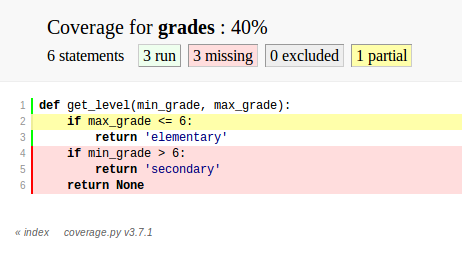
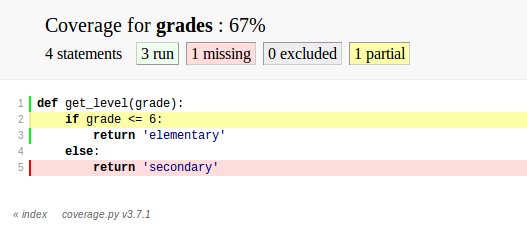
Edits after test run-through.

Changed region(s): [[0.0303, 0.3655, 1.0, 0.759], [0.0606, 0.0562, 0.9091, 0.2811], [0.0, 0.8434, 0.3333, 0.8996]]

diff --git a/output/index.html b/output/index.html
@@ -7,16 +7,15 @@
   <li><a href="http://www.oddbird.net" class="org url">oddbird.net</a></li>
   <li><a href="https://twitter.com/carljm" rel="me">@carljm</a></li>
 </ul>
-</div></p></div><div class="step" step="1" id="thistalk" data-reveal="1" data-x="1600" data-y="0"><h1 id="this-talk">This talk</h1><ul><li>py.test</li><li>test marking &amp; skipping</li><li>parametrized tests</li><li>fixtures</li><li>coverage</li><li>tox</li><li>mock &amp; pretend</li><li>WebTest</li></ul></div><div class="step" step="2" data-reveal="1" data-x="3200" data-y="0"><h1 id="how">How</h1><ul><li>Introduce a feature</li><li>Example(s)</li><li>Further exploration</li><li>Link to docs</li><li>Python 3</li></ul><div class="notes"><p>Docs links on final slide. No stress; doc links will be live in online
-slides.</p><p>All code is Py3, but will note Py2 differences.</p></div></div><div class="step" step="3" data-reveal="1" data-x="4800" data-y="0"><h1 id="me">Me</h1><ul><li>Writing Python since 2002.</li><li>Professionally since 2007.</li><li>Mostly web development.</li><li>OSS: pip, virtualenv, Django</li></ul></div><div class="step" step="4" data-emphasize-lines-step="1,3,5,7,9,10" data-x="6400" data-y="0"><h1 id="py-test">py.test</h1><h2 id="grades-py">grades.py</h2><pre class="highlight code python"><span class="ln">1 </span><span class="k">def</span> <span class="nf">get_level</span><span class="p">(</span><span class="n">min_grade</span><span class="p">,</span> <span class="n">max_grade</span><span class="p">):</span>
-<span class="ln">2 </span>    <span class="k">if</span> <span class="n">max_grade</span> <span class="o">&lt;=</span> <span class="mi">6</span><span class="p">:</span>
+</div></p></div><div class="step" step="1" id="thistalk" data-reveal="1" data-x="1600" data-y="0"><h1 id="this-talk">This talk</h1><ul><li>py.test</li><li>test marking &amp; skipping</li><li>parametrized tests</li><li>fixtures</li><li>coverage</li><li>tox</li></ul></div><div class="step" step="2" data-reveal="1" data-x="3200" data-y="0"><h1 id="how">How</h1><ul><li>Introduce a feature</li><li>Example(s)</li><li>Further exploration</li><li>Link to docs</li><li>Python 3</li></ul><div class="notes"><p>Docs links on final slide. No stress; doc links will be live in online
+slides.</p><p>All code is Py3, but will note Py2 differences.</p></div></div><div class="step" step="3" data-reveal="1" data-x="4800" data-y="0"><h1 id="me">Me</h1><ul><li>Writing Python since 2002.</li><li>Professionally since 2007.</li><li>Mostly web development.</li><li>OSS: pip, virtualenv, Django</li><li>OddBird: custom web tools for humans</li></ul></div><div class="step" step="4" data-emphasize-lines-step="1,3,5,7,9,10" data-x="6400" data-y="0"><h1 id="py-test">py.test</h1><h2 id="grades-py">grades.py</h2><pre class="highlight code python"><span class="ln">1 </span><span class="k">def</span> <span class="nf">get_level</span><span class="p">(</span><span class="n">grade</span><span class="p">):</span>
+<span class="ln">2 </span>    <span class="k">if</span> <span class="n">grade</span> <span class="o">&lt;=</span> <span class="mi">6</span><span class="p">:</span>
 <span class="ln">3 </span>        <span class="k">return</span> <span class="s">'elementary'</span>
-<span class="ln">4 </span>    <span class="k">if</span> <span class="n">min_grade</span> <span class="o">&gt;</span> <span class="mi">6</span><span class="p">:</span>
-<span class="ln">5 </span>        <span class="k">return</span> <span class="s">'secondary'</span>
-<span class="ln">6 </span>    <span class="k">return</span> <span class="bp">None</span></pre><h2 id="test-grades-py">test_grades.py</h2><pre class="highlight code python"><span class="ln">1 </span><span class="kn">import</span> <span class="nn">grades</span>
+<span class="ln">4 </span>    <span class="k">else</span><span class="p">:</span>
+<span class="ln">5 </span>        <span class="k">return</span> <span class="s">'secondary'</span></pre><h2 id="test-grades-py">test_grades.py</h2><pre class="highlight code python"><span class="ln">1 </span><span class="kn">import</span> <span class="nn">grades</span>
 <span class="ln">2 </span>
 <span class="ln">3 </span><span class="k">def</span> <span class="nf">test_get_level</span><span class="p">():</span>
-<span class="ln">4 </span>    <span class="k">assert</span> <span class="n">grades</span><span class="o">.</span><span class="n">get_level</span><span class="p">(</span><span class="mi">2</span><span class="p">,</span> <span class="mi">5</span><span class="p">)</span> <span class="o">==</span> <span class="s">'elementary'</span></pre><div class="notes"><p>py.test will find and run tests in any file whose name begins with
+<span class="ln">4 </span>    <span class="k">assert</span> <span class="n">grades</span><span class="o">.</span><span class="n">get_level</span><span class="p">(</span><span class="mi">2</span><span class="p">)</span> <span class="o">==</span> <span class="s">'elementary'</span></pre><div class="notes"><p>py.test will find and run tests in any file whose name begins with
 "test_". Test functions also need to have names beginning with "test".</p><p>Matching up "grades.py" with "test_grades.py" is not necessary, though often
 helpful to keep tests organized.</p><p>(These naming conventions are customizable.)</p><p>Low-boilerplate tests: plain functions, plain asserts.</p></div></div><div class="step" step="5" data-emphasize-lines-step="1,2,4,5,7,9" data-x="8000" data-y="0"><pre class="highlight code"><span class="ln">1 </span>$ pip install pytest</pre><pre class="highlight code"><span class="ln">1 </span>$ py.test
 <span class="ln">2 </span>============== test session starts ========================
@@ -27,7 +26,7 @@ helpful to keep tests organized.</p><p>(These naming conventions are customizabl
 <span class="ln">7 </span>
 <span class="ln">8 </span>============== 1 passed in 0.01 seconds ===================</pre><div class="notes"><p>To run the tests, just "pip install pytest" and run "py.test" - it will
 automatically find and run your tests. Here it runs our one test, which
-passes!</p></div></div><div class="step" step="6" data-pytest-highlight="1" data-emphasize-lines-step="6,12,13,14,15" data-x="9600" data-y="0"><h1 id="helpful-failures">Helpful failures</h1><pre class="highlight code"><span class="ln"> 1 </span>$ py.test
+passes!</p></div></div><div class="step" step="6" data-pytest-highlight="1" data-emphasize-lines-step="6,12,13,14,15,18" data-x="9600" data-y="0"><h1 id="helpful-failures">Helpful failures</h1><pre class="highlight code"><span class="ln"> 1 </span>$ py.test
 <span class="ln"> 2 </span>================ test session starts ======================
 <span class="ln"> 3 </span>platform linux -- Python 3.3.2 -- py-1.4.20 -- pytest-2.5.2
 <span class="ln"> 4 </span>collected 1 items
@@ -38,7 +37,7 @@ passes!</p></div></div><div class="step" step="6" data-pytest-highlight="1" data
 <span class="ln"> 9 </span>________________ test_get_level ____________________________
 <span class="ln">10 </span>
 <span class="ln">11 </span>    def test_get_level():
-<span class="ln">12 </span>&gt;       assert grades.get_level(2, 5) == 'secondary'
+<span class="ln">12 </span>&gt;       assert grades.get_level(2) == 'secondary'
 <span class="ln">13 </span>E       assert 'elementary' == 'secondary'
 <span class="ln">14 </span>E         - elementary
 <span class="ln">15 </span>E         + secondary
@@ -158,7 +157,7 @@ configurations/conditions.</li></ul></div><div class="step" step="17" data-empha
 <span class="ln">24 </span>================ 1 failed, 3 passed in 0.02 seconds =======</pre></div><div class="step" step="20" data-reveal="1" data-x="32000" data-y="0"><h1 id="py-test-fixtures">py.test fixtures</h1><ul><li>Each test should run in a predictable, repeatable, baseline environment.</li><li>Some tests need resources (a database, the filesystem, an initialized code
 object) that may require some <strong>setup</strong> and <strong>teardown</strong> in order to provide
 a predictable environment.</li><li>py.test fixtures are a modular system for defining such resources and
-allowing tests to request access to them.</li></ul></div><div class="step" step="21" data-emphasize-lines-step="5,7,8,9,12" data-x="33600" data-y="0"><h1 id="example-tempdir">Example: tempdir</h1><pre class="highlight code python"><span class="ln"> 1 </span><span class="kn">import</span> <span class="nn">shutil</span>
+allowing tests to request access to them.</li></ul></div><div class="step" step="21" data-emphasize-lines-step="5,7,8,9,12,14" data-x="33600" data-y="0"><h1 id="example-tempdir">Example: tempdir</h1><pre class="highlight code python"><span class="ln"> 1 </span><span class="kn">import</span> <span class="nn">shutil</span>
 <span class="ln"> 2 </span><span class="kn">from</span> <span class="nn">tempfile</span> <span class="kn">import</span> <span class="n">mkdtemp</span>
 <span class="ln"> 3 </span><span class="kn">import</span> <span class="nn">pytest</span>
 <span class="ln"> 4 </span>
@@ -182,11 +181,11 @@ and cleans up older ones only.)</p></div></div><div class="step" step="22" data-
 each test that requests it.</li><li>Other scopes: "class", "module", "session".</li><li>Setup new fixture once per test class, test module, or test session.</li></ul></div><div class="step" step="23" data-emphasize-lines-step="3,5,6,7,8,9" data-x="36800" data-y="0"><h1 id="session-scope-fixture">Session-scope fixture</h1><pre class="highlight code python"><span class="ln">1 </span><span class="kn">import</span> <span class="nn">pytest</span>
 <span class="ln">2 </span>
 <span class="ln">3 </span><span class="nd">@pytest.yield_fixture</span><span class="p">(</span><span class="n">scope</span><span class="o">=</span><span class="s">'session'</span><span class="p">)</span>
-<span class="ln">4 </span><span class="k">def</span> <span class="nf">db</span><span class="p">():</span>
+<span class="ln">4 </span><span class="k">def</span> <span class="nf">db_conn</span><span class="p">():</span>
 <span class="ln">5 </span>    <span class="n">create_test_database</span><span class="p">()</span>
 <span class="ln">6 </span>    <span class="n">conn</span> <span class="o">=</span> <span class="n">get_test_database_connection</span><span class="p">()</span>
 <span class="ln">7 </span>    <span class="k">yield</span> <span class="n">conn</span>
-<span class="ln">8 </span>    <span class="n">destroy_test_database</span><span class="p">()</span></pre><pre class="highlight code python"><span class="ln">1 </span><span class="k">def</span> <span class="nf">test_query</span><span class="p">(</span><span class="n">db</span><span class="p">):</span>
+<span class="ln">8 </span>    <span class="n">destroy_test_database</span><span class="p">()</span></pre><pre class="highlight code python"><span class="ln">1 </span><span class="k">def</span> <span class="nf">test_query</span><span class="p">(</span><span class="n">db_conn</span><span class="p">):</span>
 <span class="ln">2 </span>    <span class="k">pass</span> <span class="c"># ...</span></pre><div class="notes"><p>I find few good use cases for class or module-scope fixtures; I'll just give
 an example of a session-scope fixture.</p><p>Creating and destroying a database is too slow to do every test; just want
 to create the test db once at start of test run and destroy it at the end. A
@@ -228,7 +227,7 @@ value for <tt>request.param</tt>.</p><p>Tests that don't use the <tt>db</tt> fix
 <span class="ln">5 </span>$ coverage report --include=grades.py
 <span class="ln">6 </span>Name     Stmts   Miss Branch BrMiss  Cover
 <span class="ln">7 </span>------------------------------------------
-<span class="ln">8 </span>grades       6      3      4      3    40%</pre></div><div class="step" step="29" data-x="46400" data-y="0"><pre class="highlight code">$ coverage html</pre><img src="images/coverage.png" alt="" width="770px" height=""></img><div class="notes"><p>100% coverage not guarantee of adequate tests, but roughly minimum bound.</p></div></div><div class="step" step="30" data-emphasize-lines-step="1,2,4" data-x="48000" data-y="0"><h1 id="pytest-cov-plugin">pytest-cov plugin</h1><pre class="highlight code"><span class="ln">1 </span>$ pip install pytest-cov</pre><pre class="highlight code"><span class="ln">1 </span>$ pytest --cov grades --cov-report html</pre><pre class="highlight code ini"><span class="ln">1 </span><span class="k">[pytest]</span>
+<span class="ln">8 </span>grades       4      1      2      1    67%</pre></div><div class="step" step="29" data-x="46400" data-y="0"><pre class="highlight code">$ coverage html</pre><img src="images/coverage.png" alt="" width="770px" height=""></img><div class="notes"><p>100% coverage not guarantee of adequate tests, but roughly minimum bound.</p></div></div><div class="step" step="30" data-emphasize-lines-step="1,2,4" data-x="48000" data-y="0"><h1 id="pytest-cov-plugin">pytest-cov plugin</h1><pre class="highlight code"><span class="ln">1 </span>$ pip install pytest-cov</pre><pre class="highlight code"><span class="ln">1 </span>$ pytest --cov grades --cov-report html</pre><pre class="highlight code ini"><span class="ln">1 </span><span class="k">[pytest]</span>
 <span class="ln">2 </span><span class="na">addopts</span> <span class="o">=</span> <span class="s">--cov grades --cov-report term</span></pre></div><div class="step" step="31" data-x="49600" data-y="0"><h1 id="tox">Tox</h1><p>Run your tests across a matrix of Python versions, dependencies, environments.</p></div><div class="step" step="32" data-emphasize-lines-step="2,5,6,10,11,12" data-x="51200" data-y="0"><h1 id="tox-ini">tox.ini</h1><pre class="highlight code ini"><span class="ln">1 </span><span class="k">[tox]</span>
 <span class="ln">2 </span><span class="na">envlist</span> <span class="o">=</span> <span class="s">py27,py33</span>
 <span class="ln">3 </span>
@@ -277,7 +276,7 @@ value for <tt>request.param</tt>.</p><p>Tests that don't use the <tt>db</tt> fix
     Django == 1.4.10
     {[base]deps}</span>
 
-<span class="err">...</span> <span class="err">&lt;same</span> <span class="err">for</span> <span class="err">each</span> <span class="err">env&gt;</span> <span class="err">...</span></pre></div><div class="step" step="35" data-x="56000" data-y="0"><h1 id="summary">Summary</h1><ul><li><strong>py.test</strong>: low-boilerplate tests, helpful failures, parametrization,
+<span class="err">...</span> <span class="err">&lt;same</span> <span class="err">for</span> <span class="err">each</span> <span class="err">env&gt;</span> <span class="err">...</span></pre></div><div class="step" step="35" data-reveal="1" data-x="56000" data-y="0"><h1 id="summary">Summary</h1><ul><li><strong>py.test</strong>: low-boilerplate tests, helpful failures, parametrization,
 fixtures, plugins.</li><li><strong>coverage</strong> measures which lines of your code were exercised by your tests.</li><li><strong>tox</strong> runs your test across a matrix of Python versions, dependency
 versions, or environments.</li><li>Happy testing!</li></ul></div><div class="step" step="36" id="questions" data-x="57600" data-y="0"><h1 id="questions">Questions?</h1><ul><li><a href="http://oddbird.net/python-testing-tools-preso">oddbird.net/python-testing-tools-preso</a></li><li><a href="http://pytest.org">pytest.org</a></li><li><a href="http://nedbatchelder.com/code/coverage/">nedbatchelder.com/code/coverage/</a></li><li><a href="http://tox.readthedocs.org/en/latest/">tox.readthedocs.org/en/latest/</a></li></ul><p><div class="vcard">
 <a href="http://www.oddbird.net">

diff --git a/code/grades.py b/code/grades.py
@@ -1,6 +1,5 @@
-def get_level(min_grade, max_grade):
-    if max_grade <= 6:
+def get_level(grade):
+    if grade <= 6:
         return 'elementary'
-    if min_grade > 6:
+    else:
         return 'secondary'
-    return None

diff --git a/code/test_grades.py b/code/test_grades.py
@@ -1,4 +1,4 @@
 import grades
 
 def test_get_level():
-    assert grades.get_level(2, 5) == 'elementary'
+    assert grades.get_level(2) == 'elementary'

diff --git a/slides.rst b/slides.rst
@@ -36,10 +36,6 @@ This talk
 
 * tox
 
-* mock & pretend
-
-* WebTest
-
 
 ----
 
@@ -80,6 +76,8 @@ Me
 
 * OSS: pip, virtualenv, Django
 
+* OddBird: custom web tools for humans
+
 ----
 
 :data-emphasize-lines-step: 1,3,5,7,9,10
@@ -93,12 +91,11 @@ grades.py
 .. code:: python
    :number-lines:
 
-   def get_level(min_grade, max_grade):
-       if max_grade <= 6:
+   def get_level(grade):
+       if grade <= 6:
            return 'elementary'
-       if min_grade > 6:
+       else:
            return 'secondary'
-       return None
 
 .. invisible-code-block: python
 
@@ -115,7 +112,7 @@ test_grades.py
    import grades
 
    def test_get_level():
-       assert grades.get_level(2, 5) == 'elementary'
+       assert grades.get_level(2) == 'elementary'
 
 
 .. note::
@@ -160,7 +157,7 @@ test_grades.py
 ----
 
 :data-pytest-highlight: 1
-:data-emphasize-lines-step: 6,12,13,14,15
+:data-emphasize-lines-step: 6,12,13,14,15,18
 
 Helpful failures
 ----------------
@@ -179,7 +176,7 @@ Helpful failures
    ________________ test_get_level ____________________________
 
        def test_get_level():
-   >       assert grades.get_level(2, 5) == 'secondary'
+   >       assert grades.get_level(2) == 'secondary'
    E       assert 'elementary' == 'secondary'
    E         - elementary
    E         + secondary
@@ -571,7 +568,7 @@ py.test fixtures
 
 ----
 
-:data-emphasize-lines-step: 5,7,8,9,12
+:data-emphasize-lines-step: 5,7,8,9,12,14
 
 Example: tempdir
 ----------------
@@ -646,7 +643,7 @@ Session-scope fixture
    import pytest
 
    @pytest.yield_fixture(scope='session')
-   def db():
+   def db_conn():
        create_test_database()
        conn = get_test_database_connection()
        yield conn
@@ -655,7 +652,7 @@ Session-scope fixture
 .. code:: python
    :number-lines:
 
-   def test_query(db):
+   def test_query(db_conn):
        pass # ...
 
 .. note::
@@ -822,7 +819,7 @@ How much of my production code is exercised by my test suite?
    $ coverage report --include=grades.py
    Name     Stmts   Miss Branch BrMiss  Cover
    ------------------------------------------
-   grades       6      3      4      3    40%
+   grades       4      1      2      1    67%
 
 ----
 
@@ -955,6 +952,8 @@ setup.py
    ... <same for each env> ...
 
 ----
+
+:data-reveal: 1
 
 Summary
 -------
